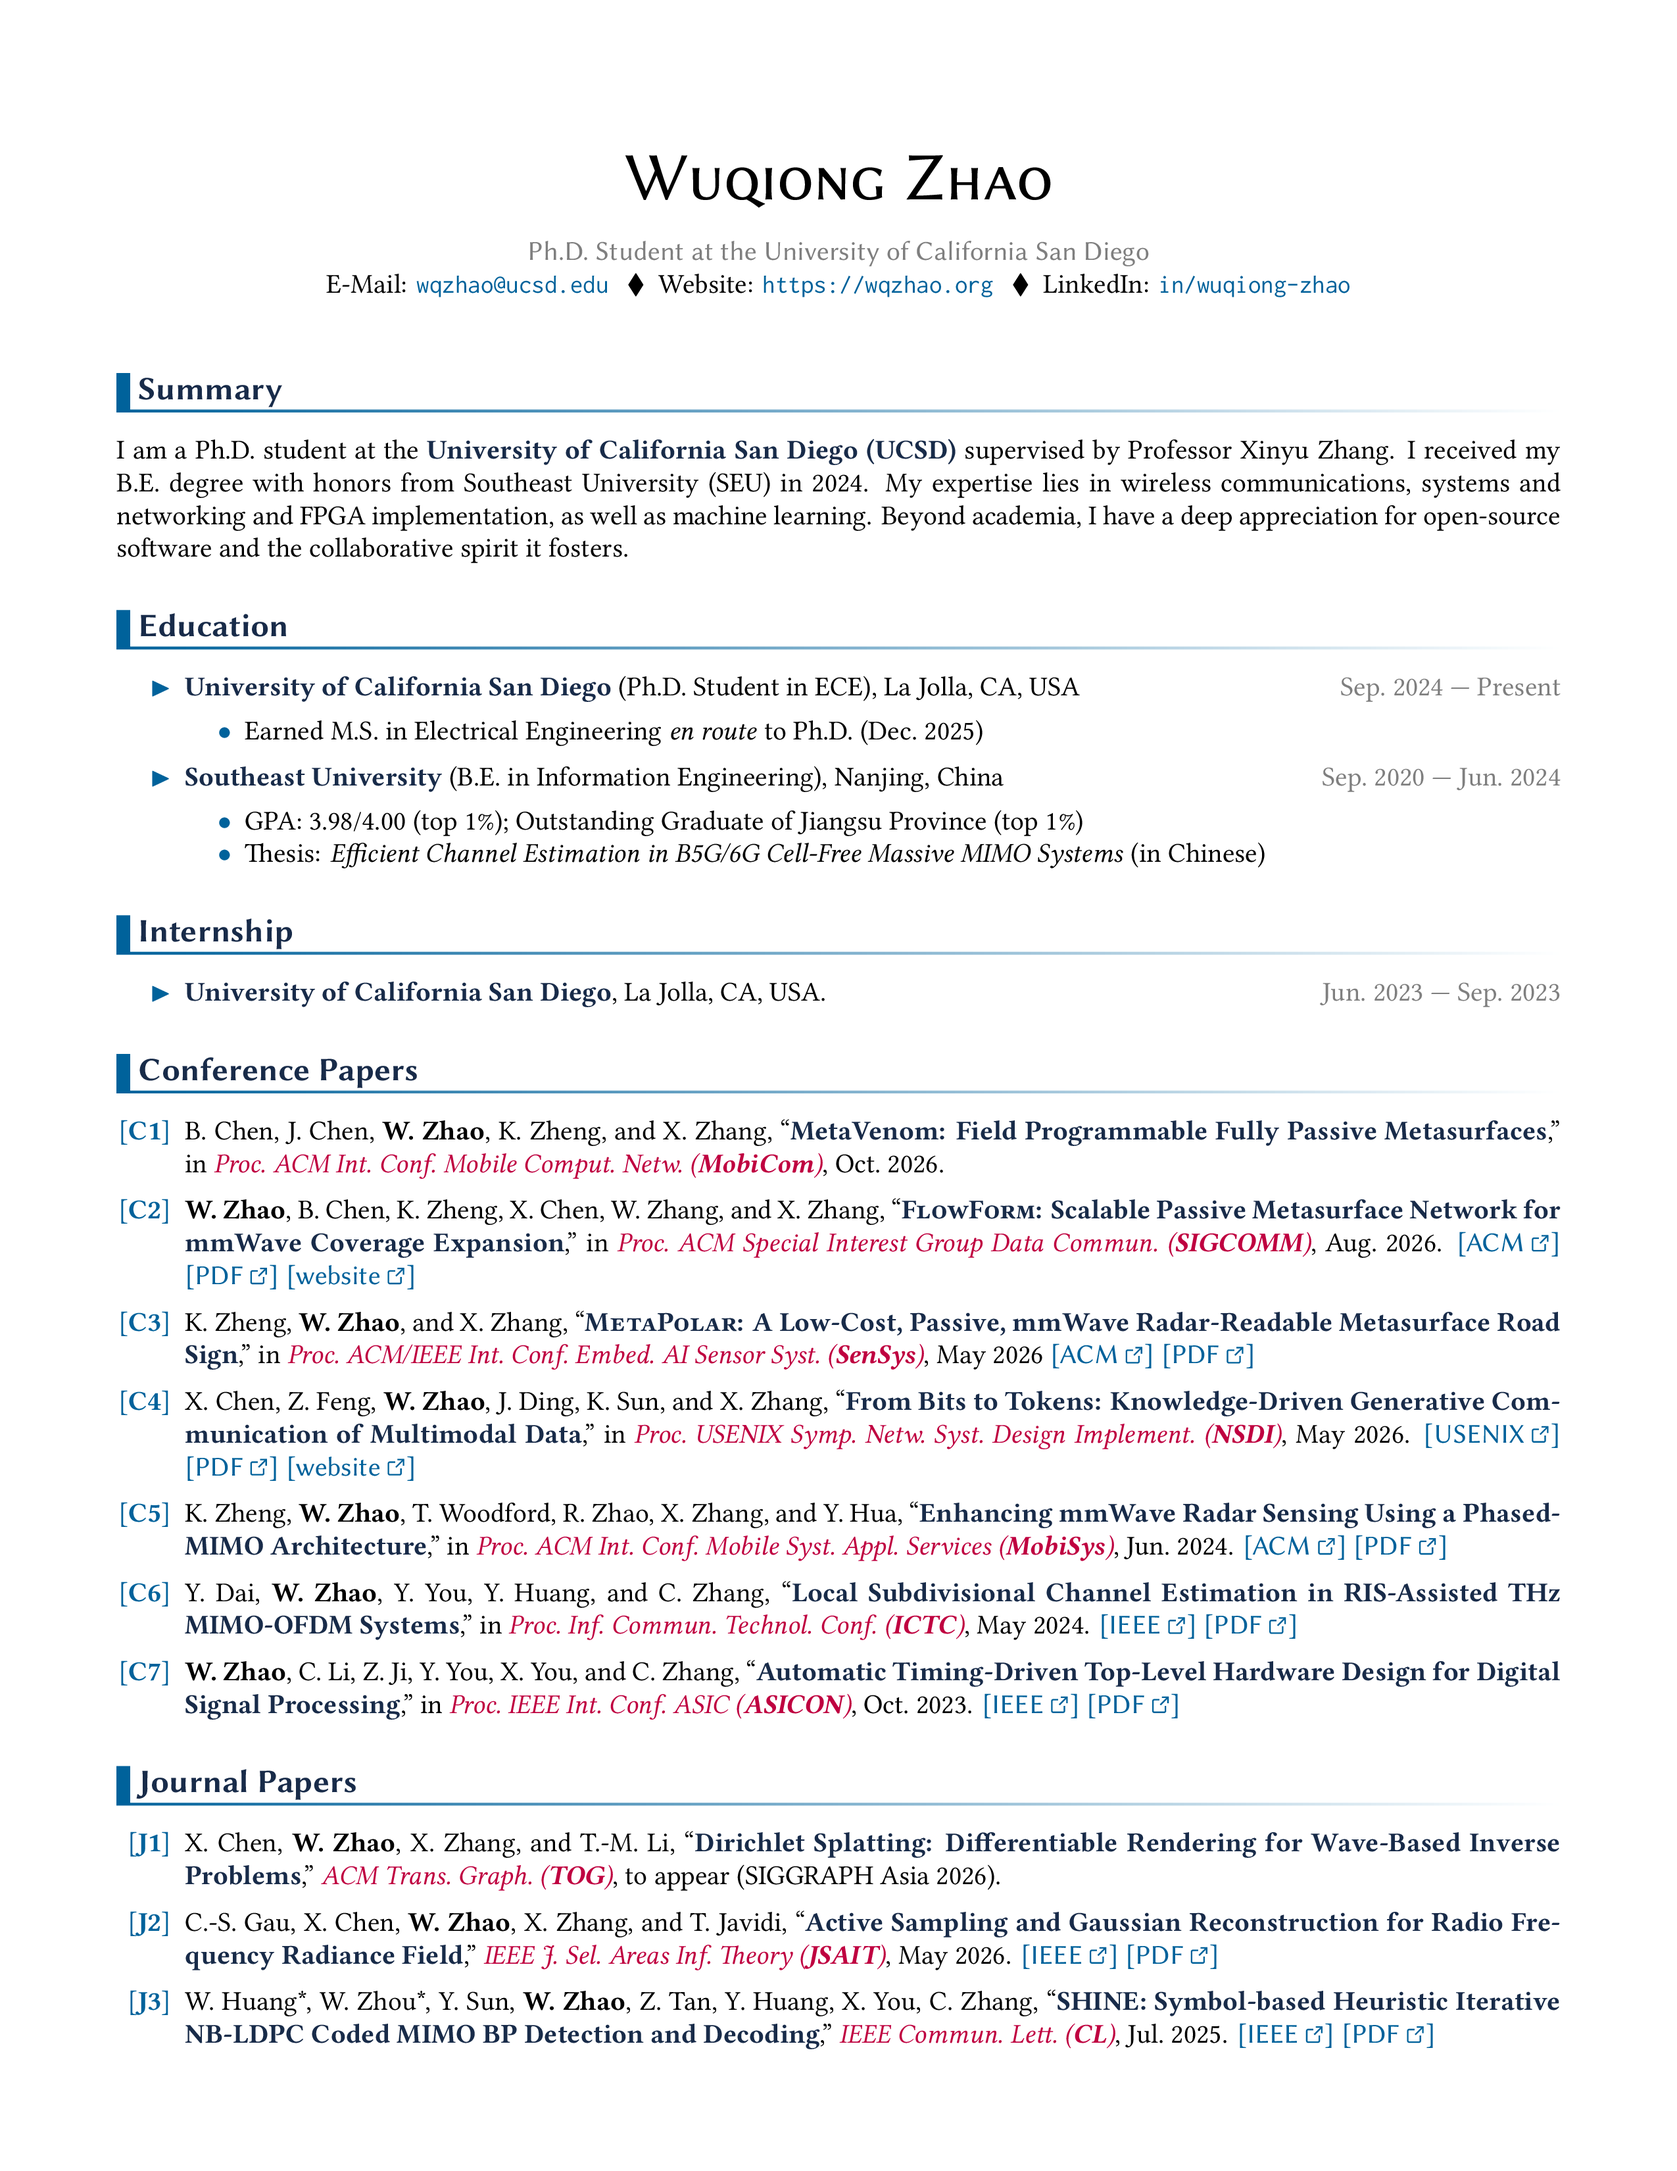
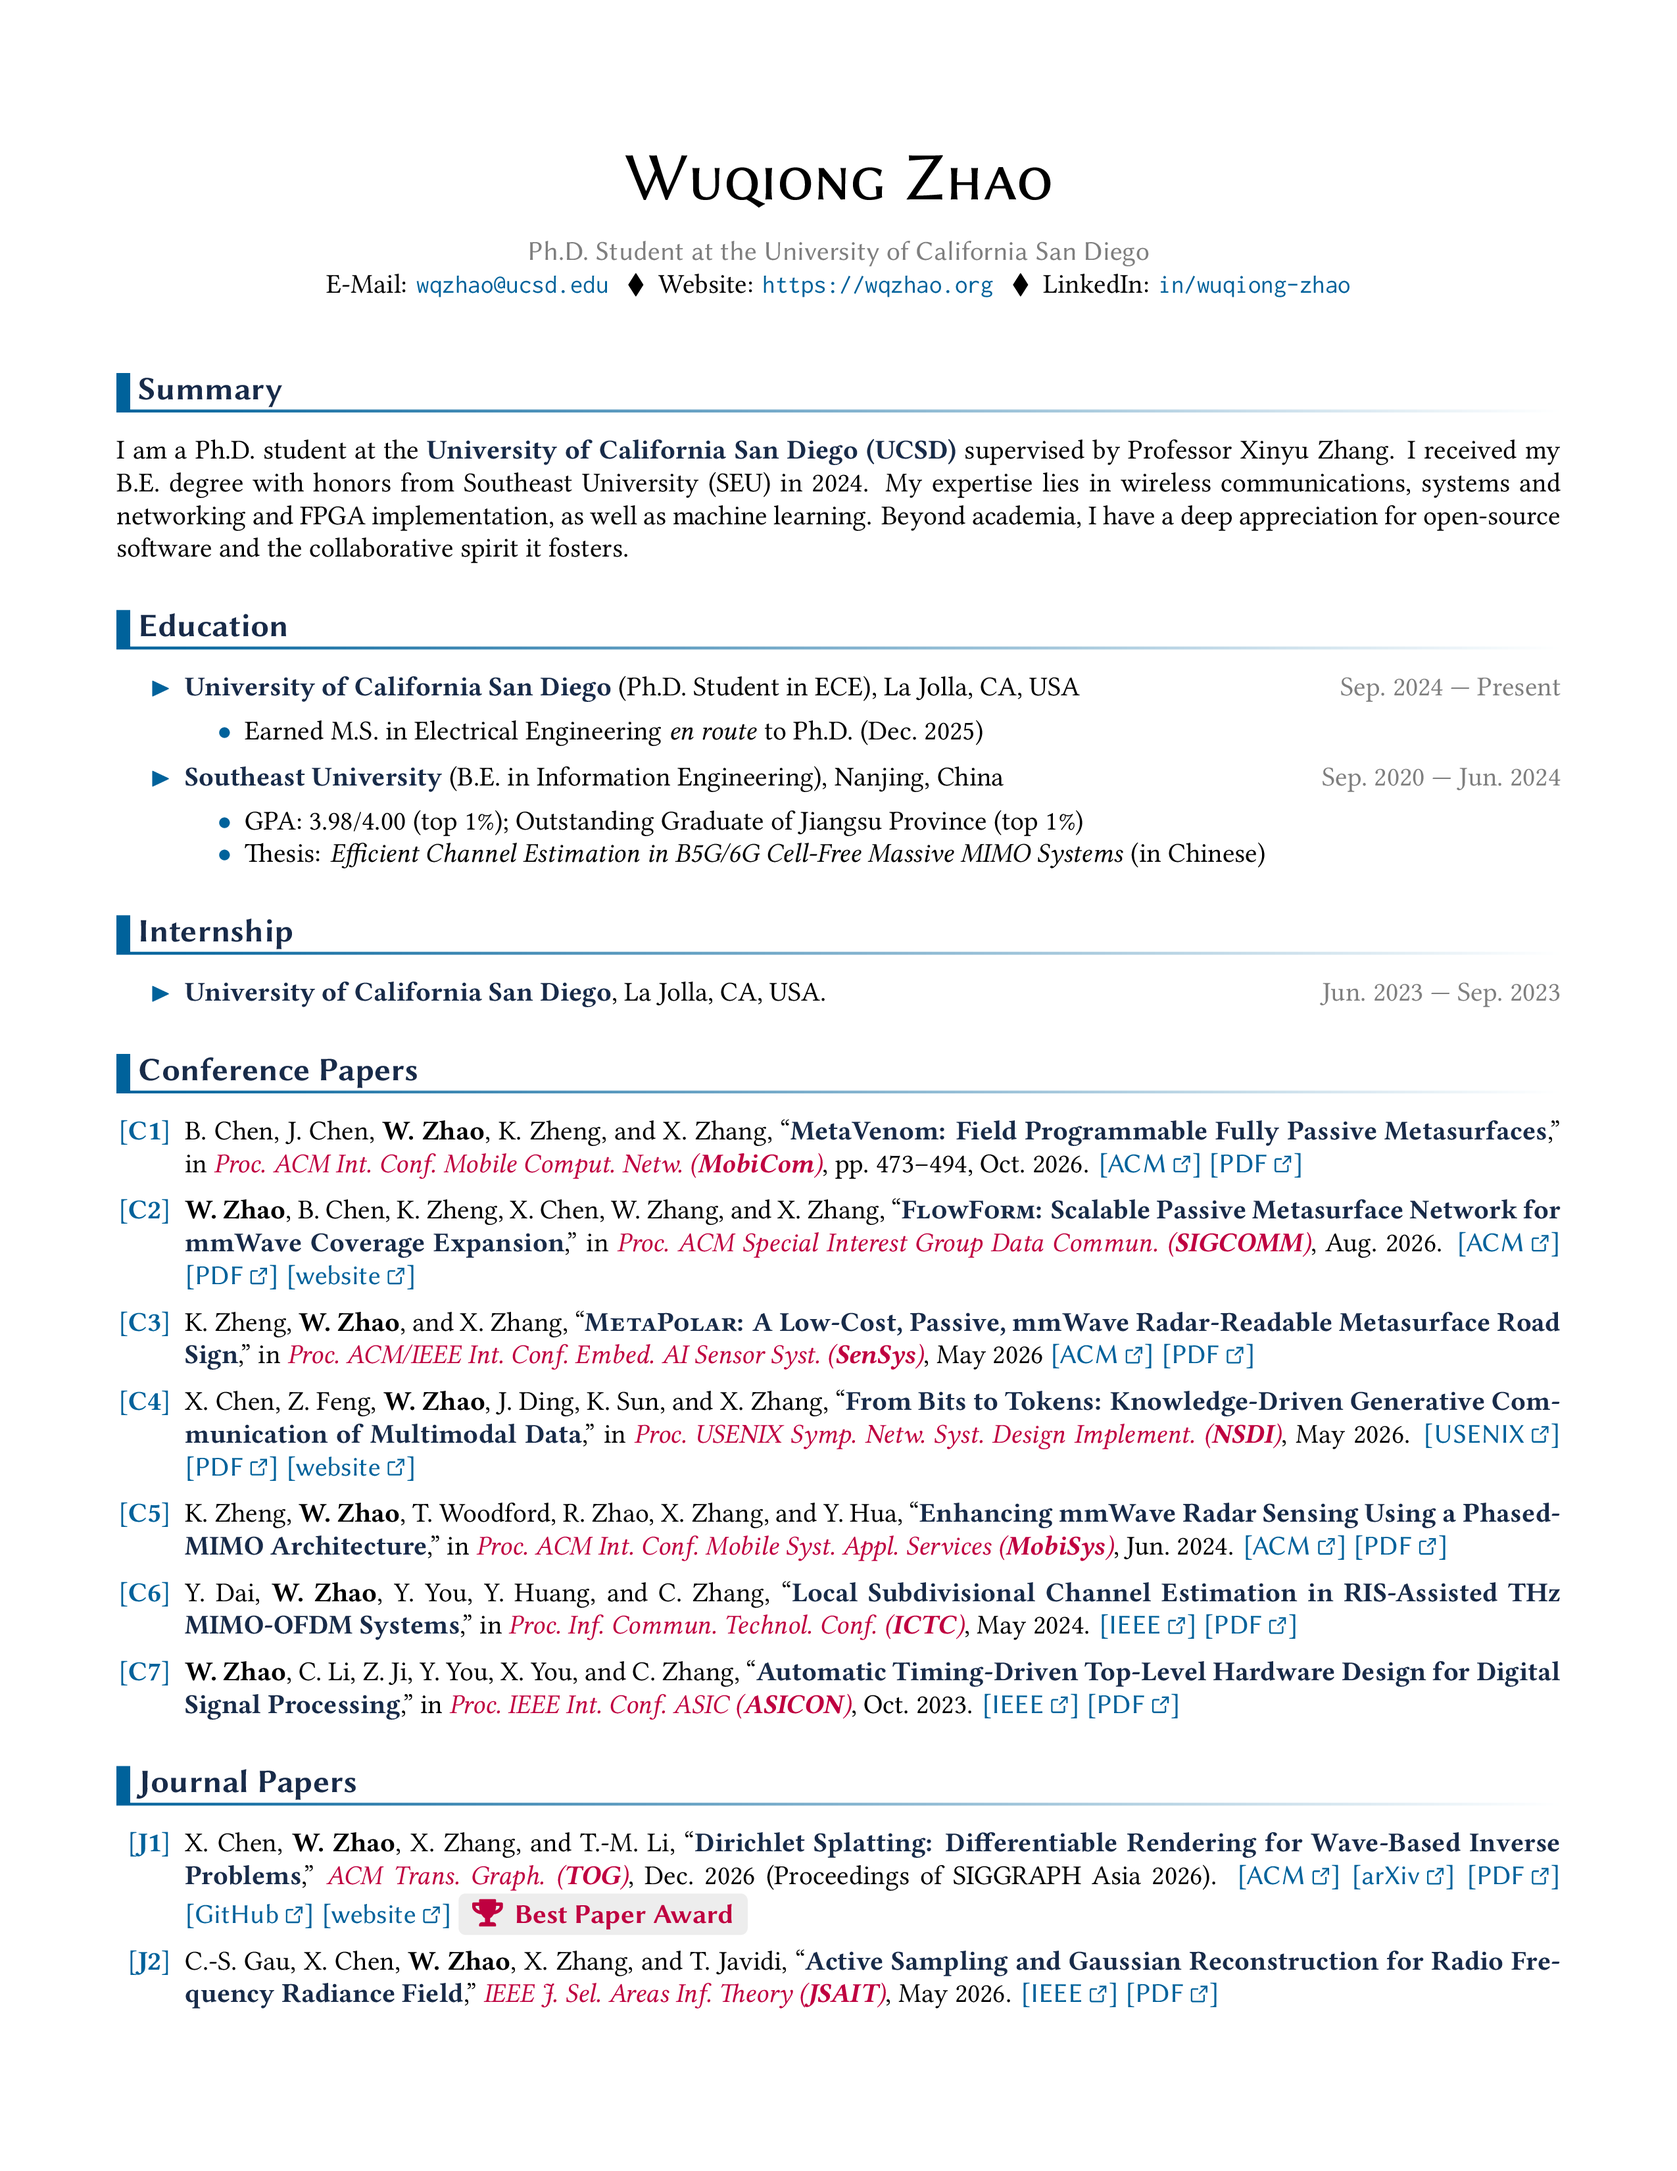
Support `\Award` Macro

Changed region(s): [[0.062, 0.8427, 0.9294, 0.9364], [0.4957, 0.5306, 0.5576, 0.5618]]

diff --git a/color-cv.tex b/color-cv.tex
@@ -78,7 +78,9 @@ Beyond academia, I have a deep appreciation for open-source software and the col
   \item \label{C:chen2026metavenom}%
     B.~Chen, J.~Chen, \textbf{W.~Zhao}, K.~Zheng, and X.~Zhang,
     ``\Textbf{MetaVenom: Field Programmable Fully Passive Metasurfaces},''
-    in \Pub{Proc.\ ACM Int.\ Conf.\ Mobile Comput.\ Netw.\ (\textbf{MobiCom})}, Oct.\ 2026.
+    in \Pub{Proc.\ ACM Int.\ Conf.\ Mobile Comput.\ Netw.\ (\textbf{MobiCom})}, pp.~473--494, Oct.\ 2026.
+    \link{https://dl.acm.org/doi/10.1145/3795866.3844150}{ACM}
+    \link{https://wqzhao.org/assets/chen2026metavenom.pdf}{PDF}
   \item \label{C:zhao2026flowform}%
     \textbf{W.~Zhao}, B.~Chen, K.~Zheng, X.~Chen, W.~Zhang, and X.~Zhang,
     ``\Textbf{\textsc{FlowForm}: Scalable Passive Metasurface Network for mmWave Coverage Expansion},''
@@ -124,11 +126,13 @@ Beyond academia, I have a deep appreciation for open-source software and the col
   \item \label{J:chen2026dirichlet}%
     X.~Chen, \textbf{W.~Zhao}, X.~Zhang, and T.-M.~Li,
     ``\Textbf{Dirichlet Splatting: Differentiable Rendering for Wave-Based Inverse Problems},''
-    \Pub{ACM Trans.\ Graph.\ (\textbf{TOG})}, to appear (SIGGRAPH Asia 2026).
+    \Pub{ACM Trans.\ Graph.\ (\textbf{TOG})}, Dec.\ 2026 (Proceedings of SIGGRAPH Asia 2026).
+    \link{https://doi.org/10.1145/3842559}{ACM}
     \link{https://arxiv.org/abs/2610.00618}{arXiv}
     \link{https://wqzhao.org/assets/chen2026dirichlet.pdf}{PDF}
     \link{https://github.com/Asixa/Dirichlet-Splatting}{GitHub}
     \link{https://dirichlet.xingyuchen.me}{website}
+    \Award{Best Paper Award}
   \item \label{J:gau2026active}%
     C.-S.~Gau, X.~Chen, \textbf{W.~Zhao}, X.~Zhang, and T.~Javidi,
     ``\Textbf{Active Sampling and Gaussian Reconstruction for Radio Frequency Radiance Field},''
@@ -250,6 +254,8 @@ Beyond academia, I have a deep appreciation for open-source software and the col
 
 \section{Honors and Awards}
 \begin{itemize}
+  \item Best Paper Award of \Pub{SIGGRAPH Asia '26}
+    \RDate{Dec.~2026}
   \item Excellent Undergraduate Thesis Award of Jiangsu Province
     \RDate{Oct.~2024}
   \item UC San Diego Department of Electrical and Computer Engineering (ECE) Fellowship

diff --git a/README.md b/README.md
@@ -81,6 +81,7 @@ The mono font is set to use *Inconsolata*.
 Some predefined macros are available for you to use:
 - `\Textbf{<text>}`: Bold text and apply the dark theme color.
 - `\Pub{<text>}`: Italic text and apply the citation color.
+- `\Award{<text>}`: Award badge with a trophy icon, rounded corners, and a light gray background (e.g., `\Award{Best Paper Award}`).
 - `\RDate{<date>}`: Gray date at the end of the line.
 - `\link{<url>}{<text>}`: Hyperlink with the text and a link logo.
 
